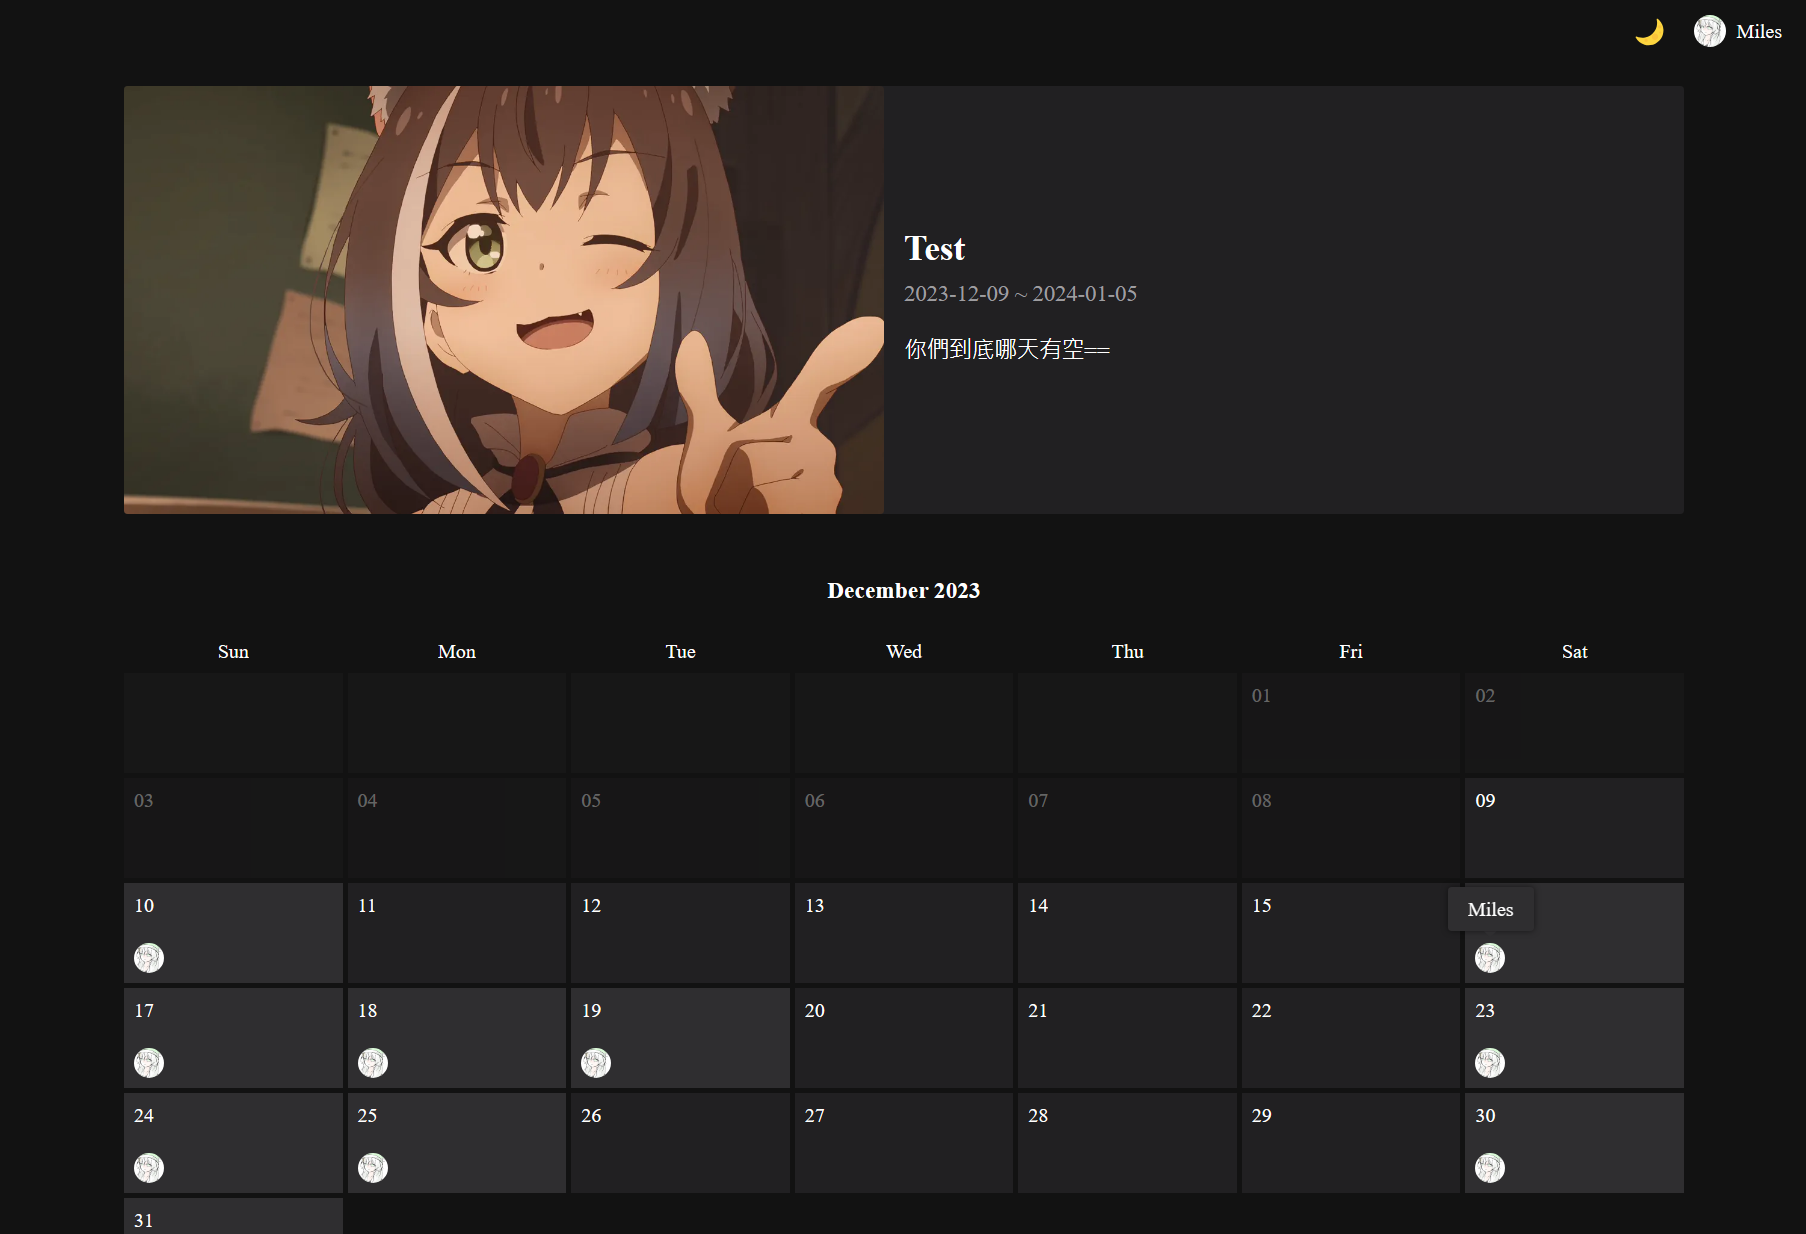
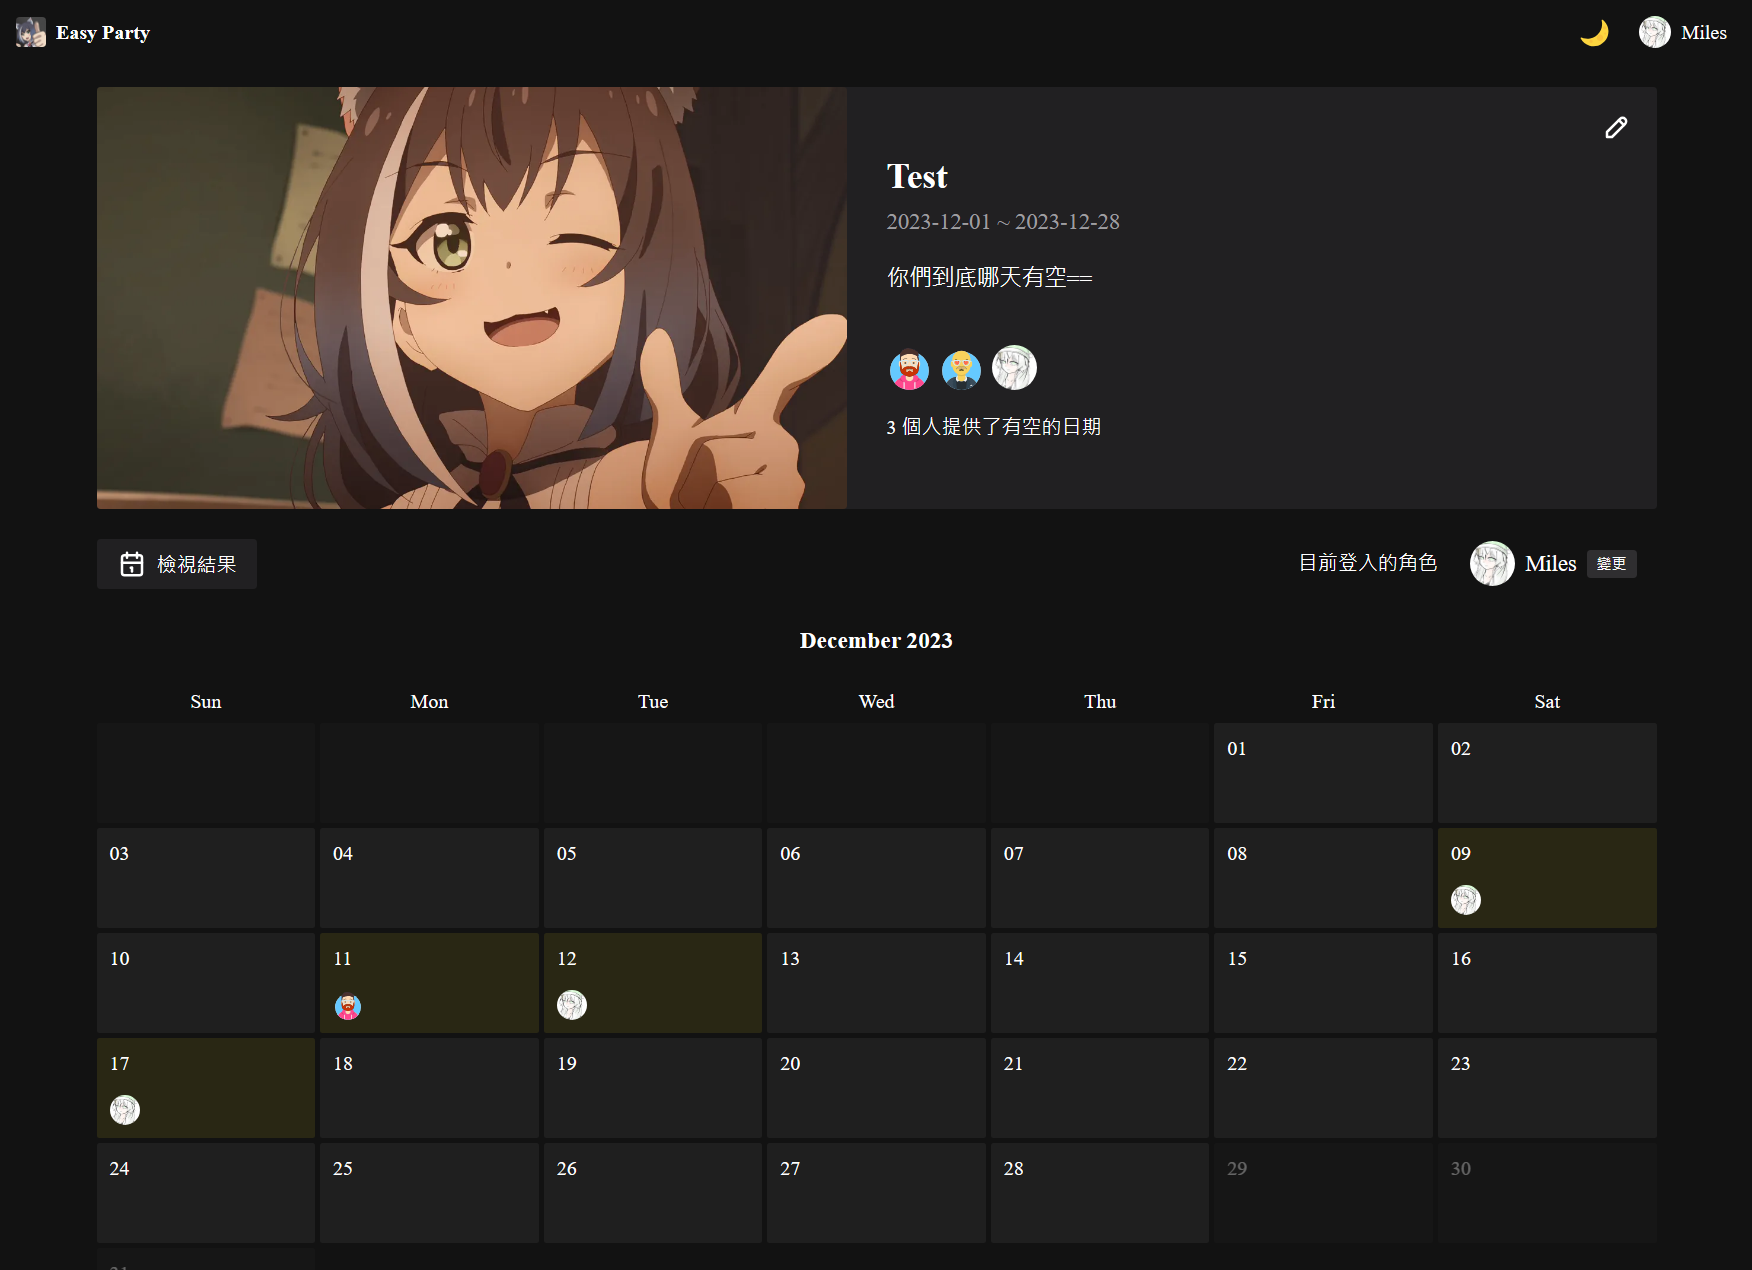
README

diff --git a/README.md b/README.md
@@ -3,9 +3,32 @@
 ![preview](./docs/preview.png)
 
 約朋友出來聚餐用的
-
+  
 ## 使用方法
-設定好之後會拿到一個有月曆的頁面連結  
-點月曆可以標記自己有空的日期  
+按下立刻建立聚會按鈕，逐步設定完後會拿到一個月曆頁面的連結
+![preview](./docs/preview0.png)
+
+
+### 基本操作
+點擊月曆上的日期標記自己有空的日期  
 ![preview](./docs/preview2.png)
 
+比較多人有空的日期，背景顏色會比較綠
+![preview](./docs/preview3.png)
+  
+### 篩選日期
+點選資訊卡上的頭像，可以Highlight選中的使用者們都有空的日期
+![preview](./docs/preview4.png)
+
+
+### 檢視結果
+依照同時有空的人數由上到下排列日期
+![preview](./docs/preview5.png)
+
+### 免登入角色
+建立月曆時，可以為不方便登入或是沒有google帳號的朋友建立匿名角色
+![preview](./docs/preview6.png)
+
+在進入有設置匿名角色的月曆時，會出現角色選擇頁面  
+![preview](./docs/preview7.png)
+選擇匿名角色便可直接以匿名角色的身份編輯月曆
